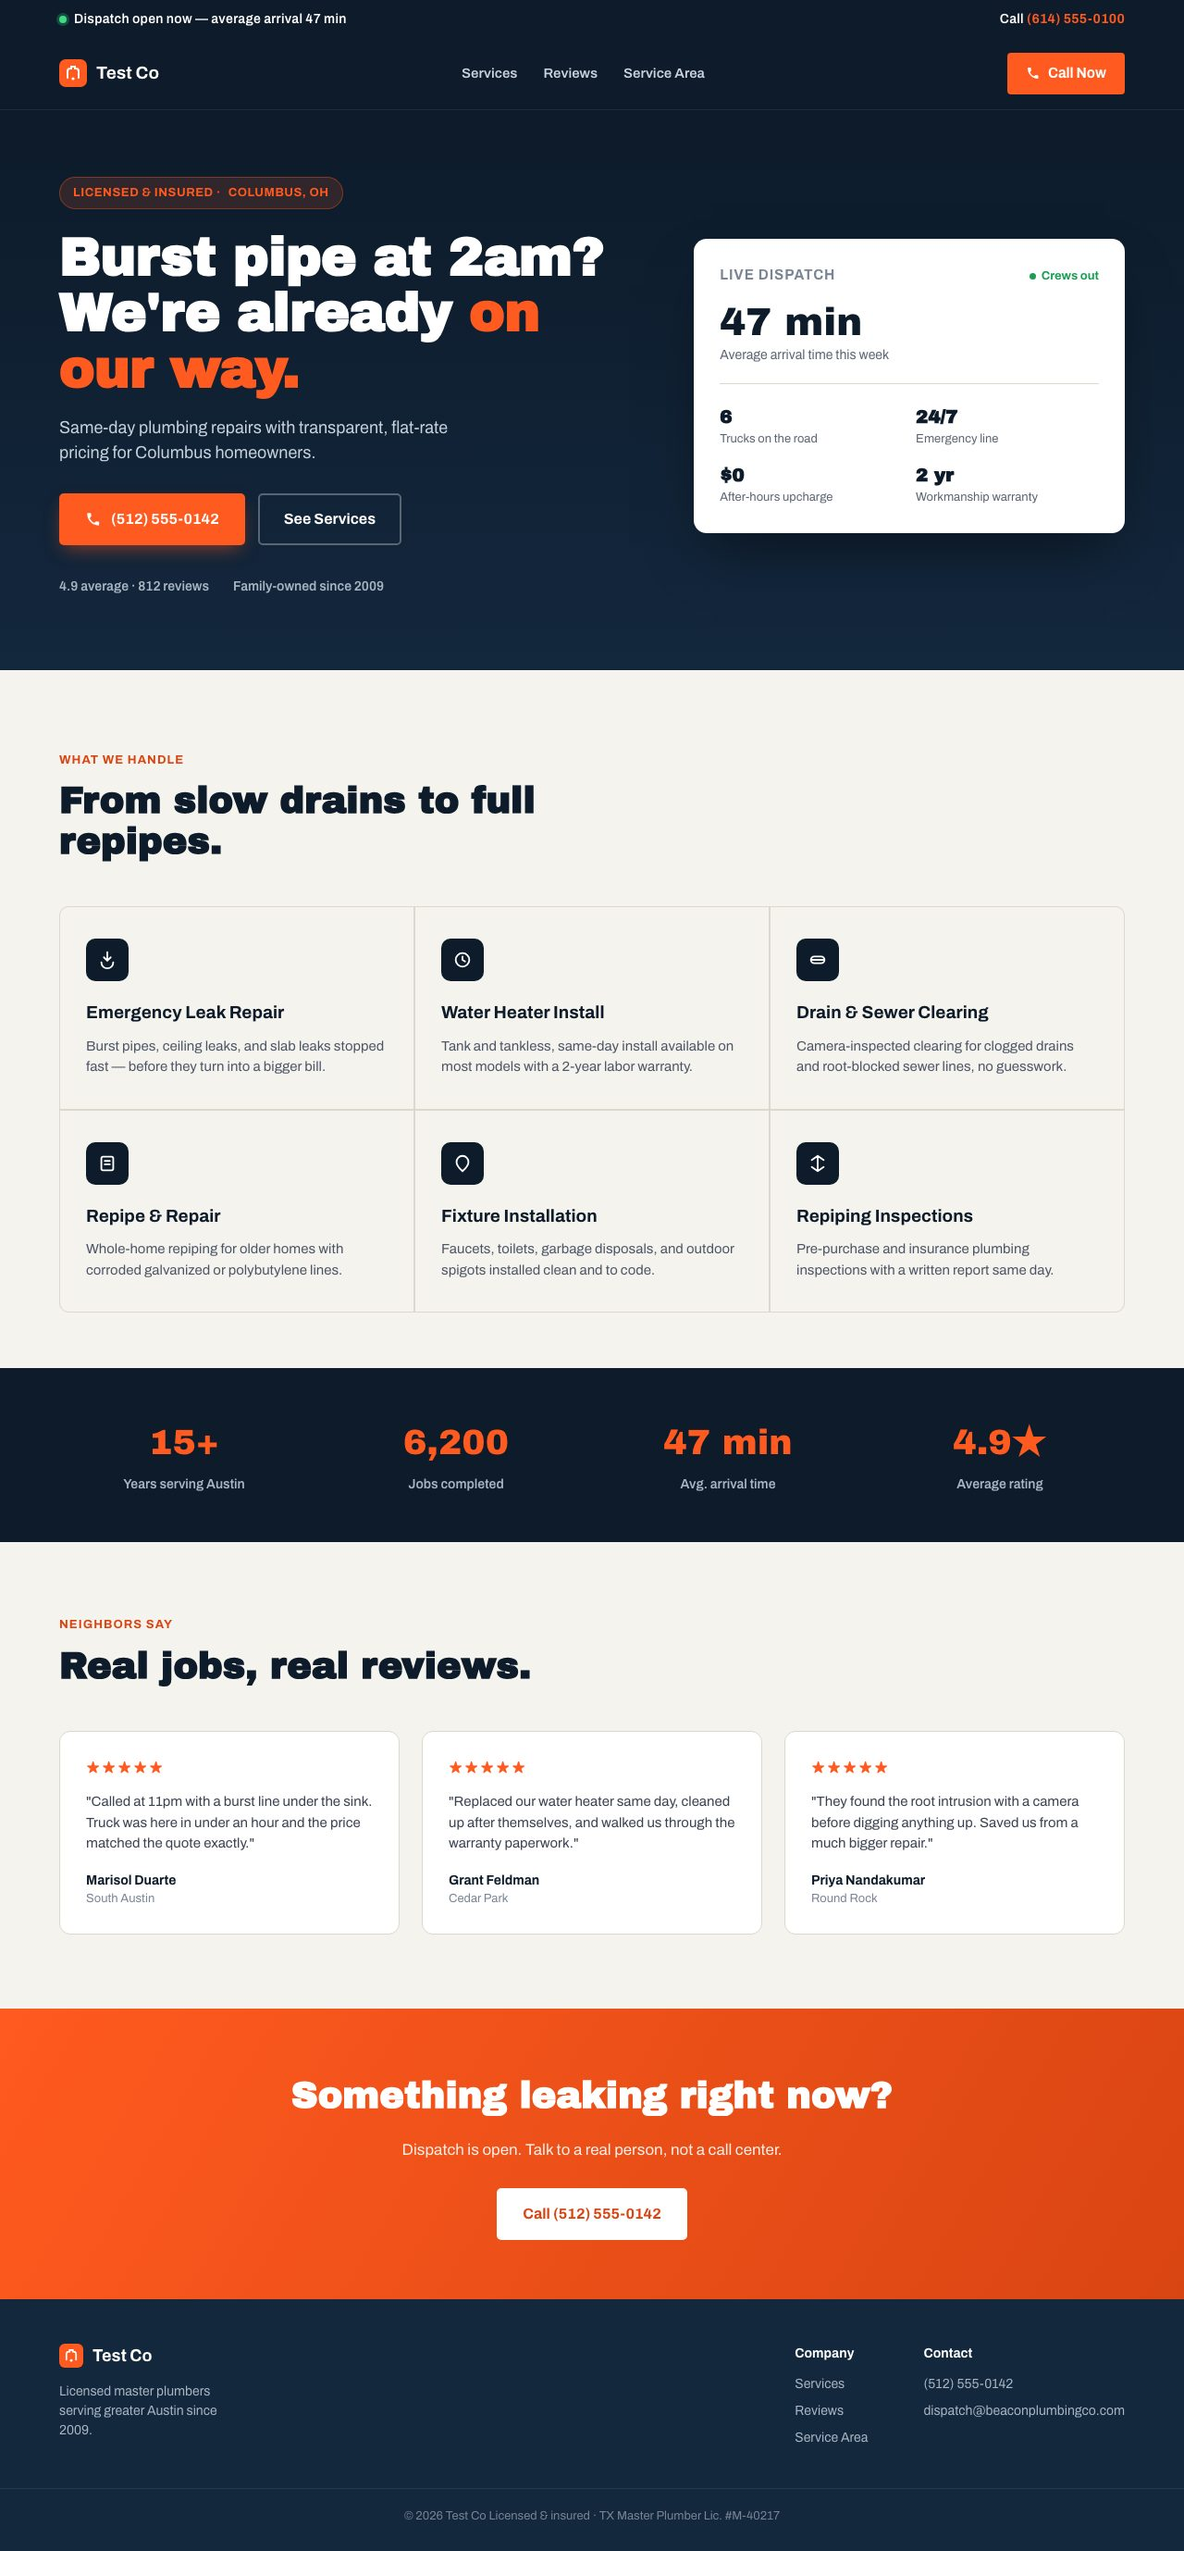
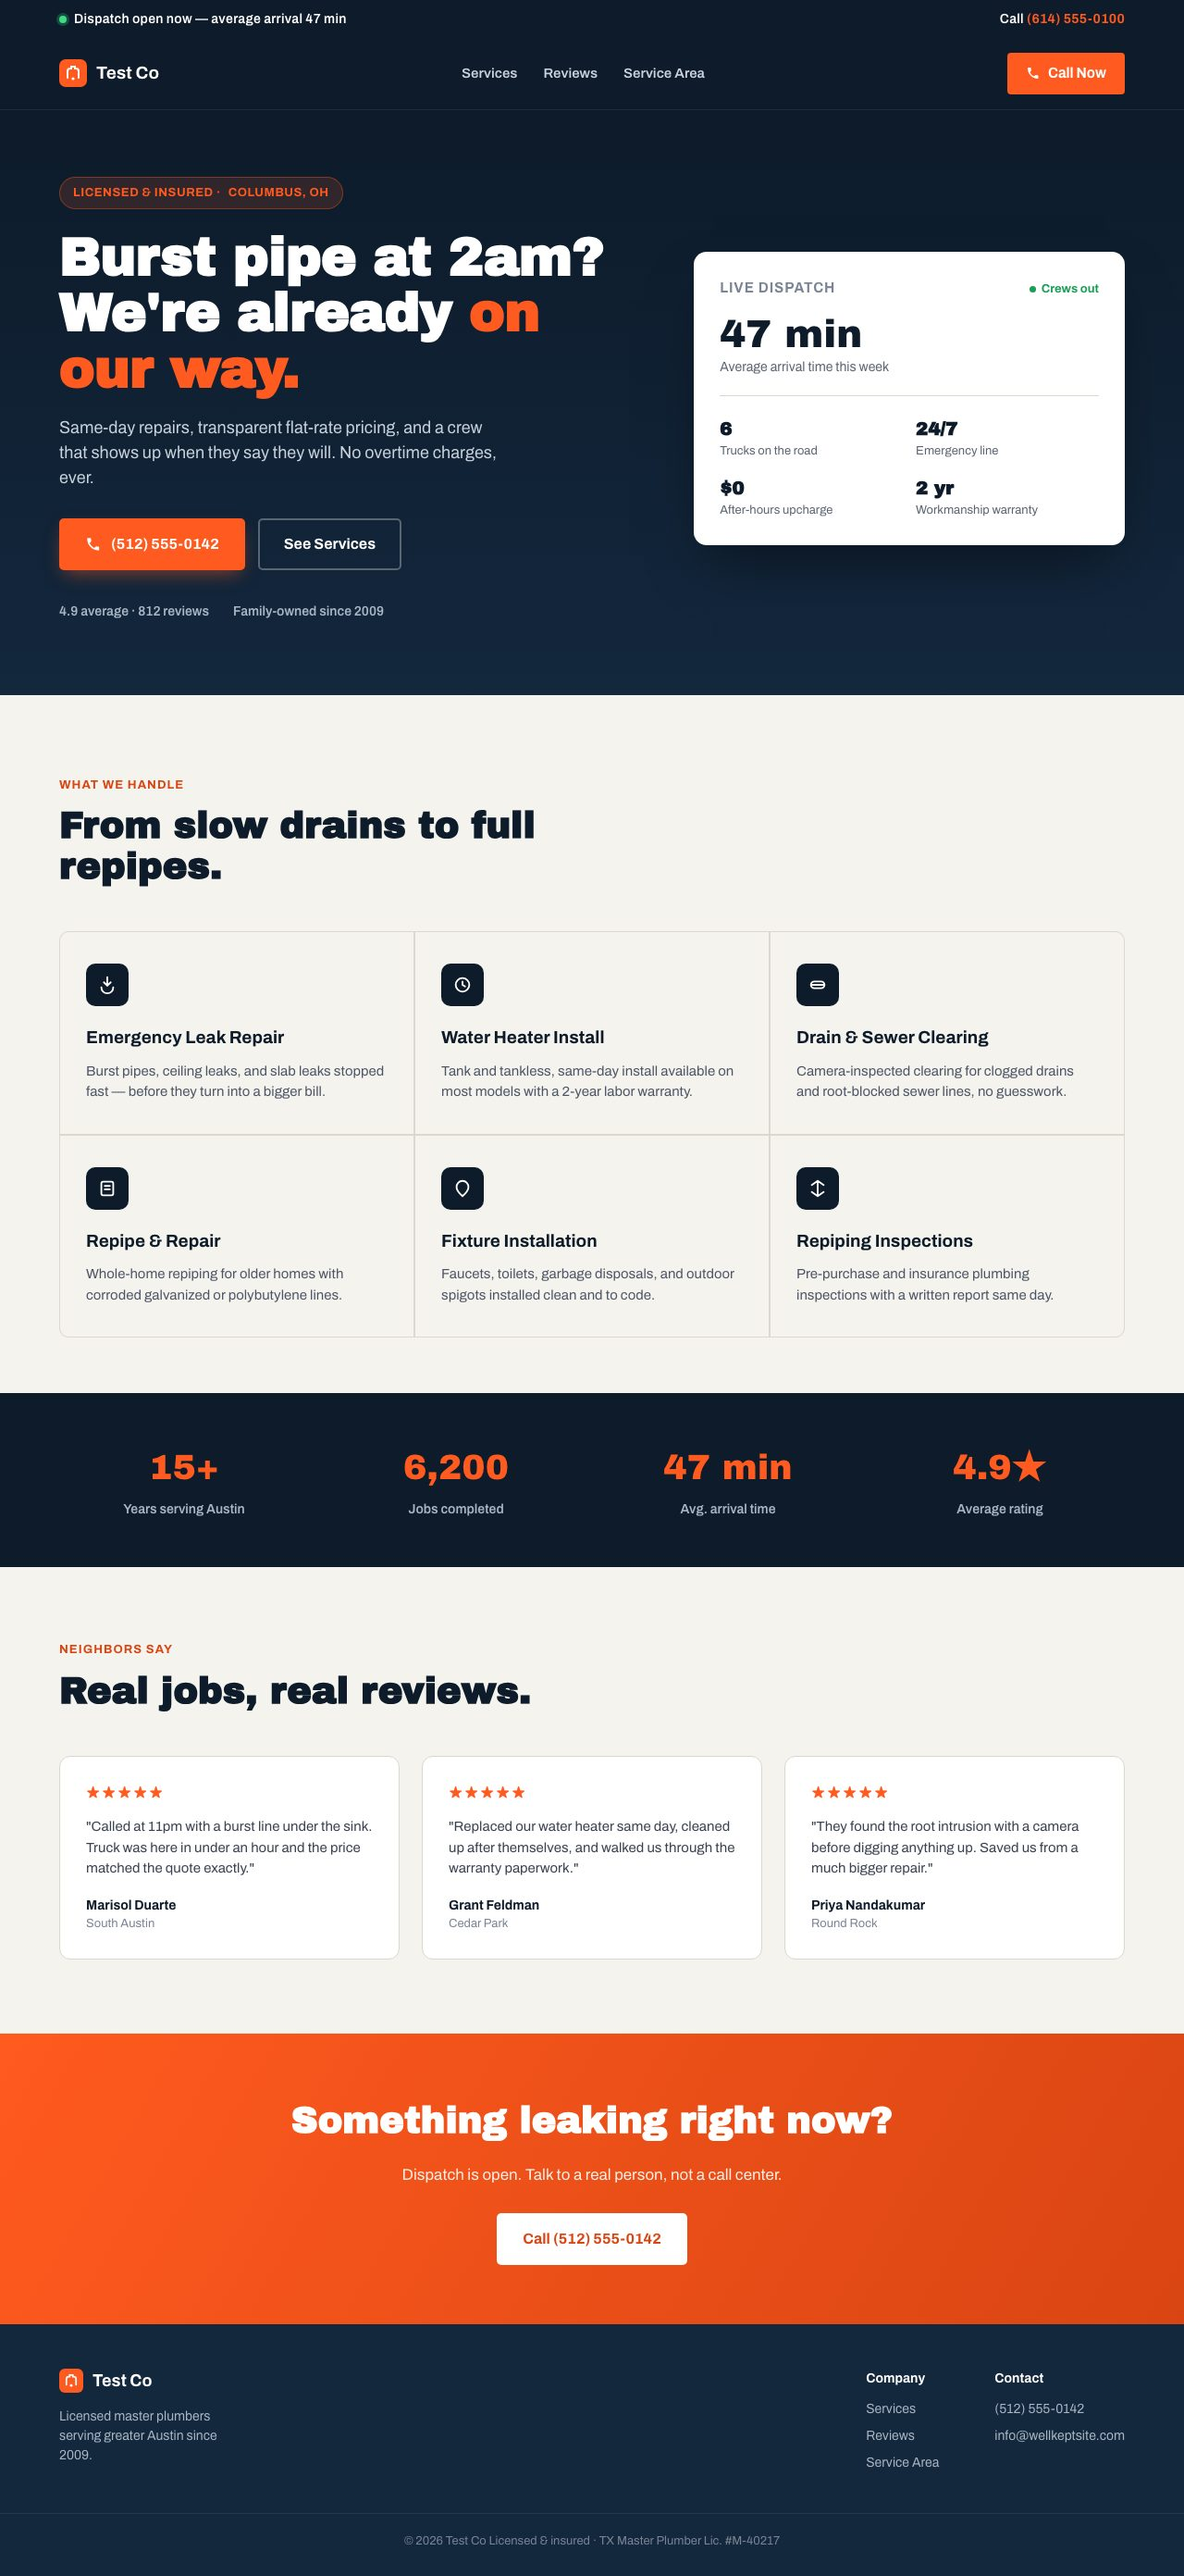
Mockups: rewrite contact mailto to info@<prospect domain>

diff --git a/templates/mockups/maplegrovecpa.com/index.html b/templates/mockups/maplegrovecpa.com/index.html
@@ -117,7 +117,7 @@
   <section class="hero">
     <div class="wrap grid">
       <div>
-        <div class="kicker" data-mock="tagline">Monthly bookkeeping and quarterly tax planning for Westerville business owners who'd rather not think about it until it's done.</div>
+        <div class="kicker" data-mock="tagline">Tax &amp; Financial Advisory</div>
         <h1>Precision bookkeeping for owners who'd rather run the business.</h1>
         <p class="lead">We handle the filings, the reconciliations, and the quarterly estimates — so the numbers are ready before you need them, not the night before.</p>
         <div class="actions">
@@ -205,14 +205,14 @@
     <div class="wrap">
       <h2>Bring your last two tax returns.</h2>
       <p>Most first consultations surface at least one thing worth fixing before the next filing deadline.</p>
-      <a class="btn-fill" href="mailto:consult@ashfordvale.com">Schedule a Consult</a>
+      <a class="btn-fill" href="mailto:info@maplegrovecpa.com">Schedule a Consult</a>
     </div>
   </section>
 
   <footer>
     <div class="wrap">
-      <div><span data-mock="name">Maple Grove CPA Group</span> · <span data-mock="city">Westerville, OH</span></div>
-      <div>consult@ashfordvale.com · <span data-mock="phone">(614) 555-0173</span></div>
+      <div><span data-mock="name">Maple Grove CPA Group</span> · <span data-mock="city">Cleveland, OH</span></div>
+      <div>consult@ashfordvale.com · <span data-mock="phone">(216) 555-0199</span></div>
       <div>© 2026 <span data-mock="name">Maple Grove CPA Group</span></div>
     </div>
   </footer>

diff --git a/templates/mockups/buckeyebooks.com/index.html b/templates/mockups/buckeyebooks.com/index.html
@@ -117,7 +117,7 @@
   <section class="hero">
     <div class="wrap grid">
       <div>
-        <div class="kicker" data-mock="tagline">Reliable monthly bookkeeping for Dublin-area small businesses, reconciled by the 10th, every month.</div>
+        <div class="kicker" data-mock="tagline">Tax &amp; Financial Advisory</div>
         <h1>Precision bookkeeping for owners who'd rather run the business.</h1>
         <p class="lead">We handle the filings, the reconciliations, and the quarterly estimates — so the numbers are ready before you need them, not the night before.</p>
         <div class="actions">
@@ -205,14 +205,14 @@
     <div class="wrap">
       <h2>Bring your last two tax returns.</h2>
       <p>Most first consultations surface at least one thing worth fixing before the next filing deadline.</p>
-      <a class="btn-fill" href="mailto:consult@ashfordvale.com">Schedule a Consult</a>
+      <a class="btn-fill" href="mailto:info@buckeyebooks.com">Schedule a Consult</a>
     </div>
   </section>
 
   <footer>
     <div class="wrap">
-      <div><span data-mock="name">Buckeye Bookkeeping Co</span> · <span data-mock="city">Dublin, OH</span></div>
-      <div>consult@ashfordvale.com · <span data-mock="phone">(614) 555-0192</span></div>
+      <div><span data-mock="name">Buckeye Bookkeeping Co</span> · <span data-mock="city">Cincinnati, OH</span></div>
+      <div>consult@ashfordvale.com · <span data-mock="phone">(513) 555-0177</span></div>
       <div>© 2026 <span data-mock="name">Buckeye Bookkeeping Co</span></div>
     </div>
   </footer>

diff --git a/templates/mockups/wellkeptsite.com/index.html b/templates/mockups/wellkeptsite.com/index.html
@@ -199,7 +199,7 @@
       <div>
         <div class="hero-badge">Licensed &amp; insured · <span data-mock="city">Columbus, OH</span></div>
         <h1>Burst pipe at 2am?<br>We're already <span>on our way.</span></h1>
-        <p class="sub" data-mock="tagline">Same-day plumbing repairs with transparent, flat-rate pricing for Columbus homeowners.</p>
+        <p class="sub" data-mock="tagline">Same-day repairs, transparent flat-rate pricing, and a crew that shows up when they say they will. No overtime charges, ever.</p>
         <div class="ctas">
           <a class="btn-primary" href="tel:+15125550142">
             <svg width="18" height="18" viewBox="0 0 24 24" fill="none"><path d="M6.6 10.8a15 15 0 0 0 6.6 6.6l2.2-2.2a1 1 0 0 1 1-.25 9 9 0 0 0 2.8.45 1 1 0 0 1 1 1V20a1 1 0 0 1-1 1A17 17 0 0 1 3 4a1 1 0 0 1 1-1h3.5a1 1 0 0 1 1 1 9 9 0 0 0 .45 2.8 1 1 0 0 1-.25 1z" fill="#fff"></path></svg>
@@ -335,7 +335,7 @@
         <div class="col">
           <h4>Contact</h4>
           <a href="tel:+15125550142">(512) 555-0142</a>
-          <a href="mailto:dispatch@beaconplumbingco.com">dispatch@beaconplumbingco.com</a>
+          <a href="mailto:info@wellkeptsite.com">info@wellkeptsite.com</a>
         </div>
       </div>
     </div>

diff --git a/templates/mockups/riversidetaxoh.com/index.html b/templates/mockups/riversidetaxoh.com/index.html
@@ -117,7 +117,7 @@
   <section class="hero">
     <div class="wrap grid">
       <div>
-        <div class="kicker" data-mock="tagline">Straightforward tax prep and bookkeeping for Columbus small businesses, with a real person answering the phone.</div>
+        <div class="kicker" data-mock="tagline">Tax &amp; Financial Advisory</div>
         <h1>Precision bookkeeping for owners who'd rather run the business.</h1>
         <p class="lead">We handle the filings, the reconciliations, and the quarterly estimates — so the numbers are ready before you need them, not the night before.</p>
         <div class="actions">
@@ -205,7 +205,7 @@
     <div class="wrap">
       <h2>Bring your last two tax returns.</h2>
       <p>Most first consultations surface at least one thing worth fixing before the next filing deadline.</p>
-      <a class="btn-fill" href="mailto:consult@ashfordvale.com">Schedule a Consult</a>
+      <a class="btn-fill" href="mailto:info@riversidetaxoh.com">Schedule a Consult</a>
     </div>
   </section>
 
